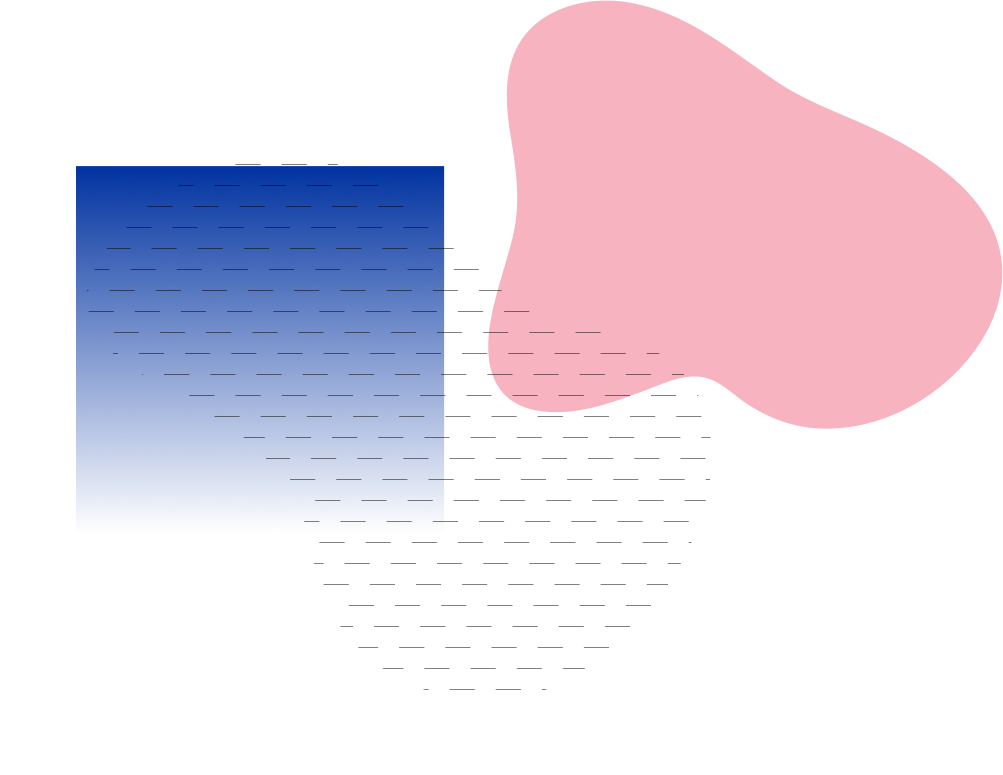
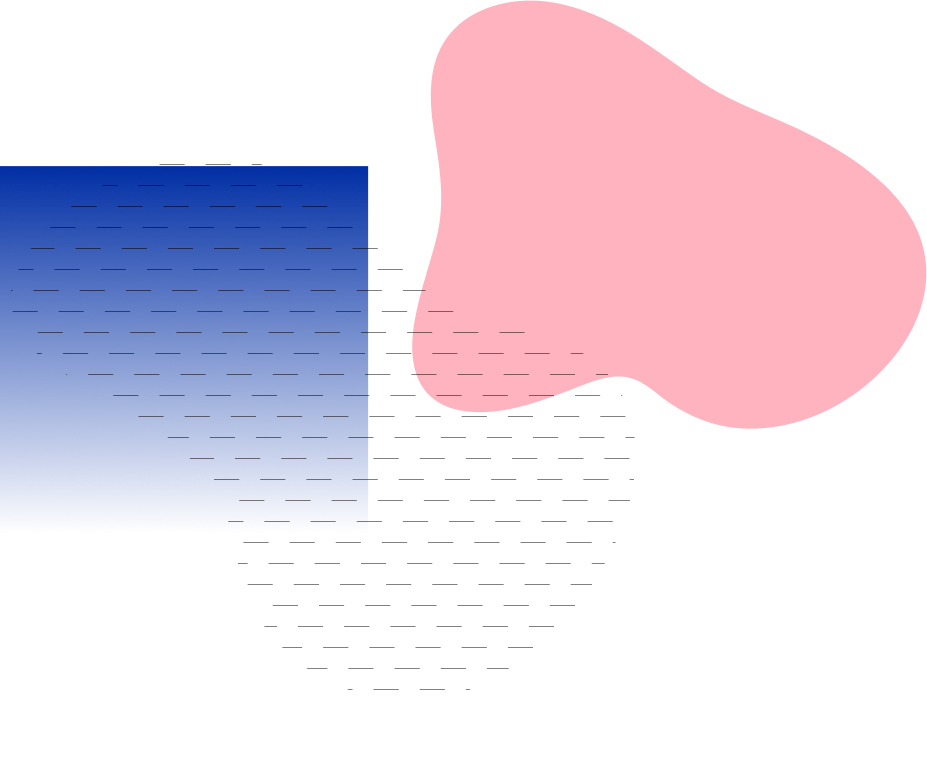
edited

diff --git a/src/scss/modules/main.scss b/src/scss/modules/main.scss
@@ -6,6 +6,7 @@ main.main{
     max-width: $desktopWidth;
     & .experts{
       position: relative;
+      z-index: 1;
       & ul.slider{
         margin-bottom: 50px;
         & li.item{
@@ -22,6 +23,7 @@ main.main{
               text-align: left;
               position: relative;
               min-height: 76px;
+              z-index: 0;
               & span.blue{
                 background-color: $blue;
                 color: $white;
@@ -30,10 +32,10 @@ main.main{
                 display: block;
                 position: absolute;
                 content: '';
-                left: -35px;
-                top: -60px;
-                width: 255px;
-                height: 200px;
+                left: -25px;
+                top: -55px;
+                width: 218px;
+                height: 170px;
                 background-image: url('/assets/img/slides/cloud.svg');
                 background-size: cover;
                 background-position: 50%;
@@ -60,6 +62,17 @@ main.main{
                 background-image: url('/assets/img/slides/slide-2-hover.png');
               }
             }
+            & .text{
+              & p{
+                max-width: 220px;
+                &::before{
+                  left: -15px;
+                  top: -47px;
+                  width: 230px;
+                  height: 180px;
+                }
+              }
+            }
           }
           &.slide-3 {
             & .pic{
@@ -70,9 +83,36 @@ main.main{
             & .pic{
               background-image: url('/assets/img/slides/slide-4.png');
             }
+            & .text{
+              & p{
+                max-width: 220px;
+                &::before{
+                  left: -15px;
+                  top: -47px;
+                  width: 230px;
+                  height: 180px;
+                }
+              }
+            }
           }
         }
       }
+      &::before{
+        display: block;
+        position: absolute;
+        content: '';
+        left: -5%;
+        bottom: 10%;
+        width: 110%;
+        height: 100%;
+        background-image: url('/assets/img/pattern/pattern-1.png');
+        background-size: auto 100%;
+        background-position: 30% 100%;
+        background-repeat: no-repeat;
+        z-index: -1;
+      }
+    }
+    & .title{
       & h1.title{
         background-color: rgba(0,50,160,.3);
         font-family: $extraBold;
@@ -99,25 +139,13 @@ main.main{
         }
         
       }
-      &::before{
-        display: block;
-        position: absolute;
-        content: '';
-        left: -5%;
-        bottom: 10%;
-        width: 110%;
-        height: 100%;
-        background-image: url('/assets/img/pattern/pattern-1.png');
-        background-size: auto 100%;
-        background-position: 30% 100%;
-        background-repeat: no-repeat;
-        z-index: -1;
-      }
     }
     & .content{
       background-color: transparent;
       text-align: center;
       max-width: 514px;
+      position: relative;
+      z-index: 1;
       & .text{
         font-size: $fz8;
         background-color: $white;
@@ -157,7 +185,8 @@ main.main{
         & ul.slider{
           & li.item{
             & .pic{
-              height: 677px;
+              height: 600px;
+              width: 625px;
             }
           }
         }
@@ -172,115 +201,67 @@ main.main{
     & .container{
       display: flex;
       flex-direction: row;
+      flex-wrap: wrap;
       & .experts{
         position: relative;
         order: 2;
+        width: 64%;
+        margin-left: -30px;
         & ul.slider{
           margin-bottom: 50px;
           & li.item{
-            display: flex;
-            flex-direction: column;
+            flex-direction: row;
             & .text{
-              text-align: center;
-              margin-bottom: 90px;
+              margin-bottom: 0px;
+              order: 2;
+              position: absolute;
+              right: -5%;
+              top: 80px;
               & p{
-                font-family: $medium;
                 font-size: $fz6;
-                display: inline-block;
                 max-width: 200px;
-                text-align: left;
-                position: relative;
                 min-height: 76px;
                 & span.blue{
                   background-color: $blue;
                   color: $white;
                 }
                 &::before{
-                  display: block;
-                  position: absolute;
-                  content: '';
                   left: -35px;
-                  top: -60px;
-                  width: 255px;
-                  height: 200px;
-                  background-image: url('/assets/img/slides/cloud.svg');
-                  background-size: cover;
-                  background-position: 50%;
-                  background-repeat: no-repeat;
-                  z-index: -1;
                 }
               }
             }
             & .pic{
-              text-align: center;
-              background-image: url('/assets/img/slides/slide-1.png');
-              background-size: contain;
-              background-repeat: no-repeat;
-              background-position: 50% 100%;
+              text-align: left;
+              order: 1;
+              background-position: 0px 100%;
               &:hover{
                 background-image: url('/assets/img/slides/slide-1-hover.png');
               }
             }
-            &.slide-2 {
-              & .pic{
-                background-image: url('/assets/img/slides/slide-2.png');
-                &:hover{
-                  background-image: url('/assets/img/slides/slide-2-hover.png');
-                }
-              }
-            }
-            &.slide-3 {
-              & .pic{
-                background-image: url('/assets/img/slides/slide-3.png');
-              }
-            }
+            &.slide-2,
             &.slide-4 {
-              & .pic{
-                background-image: url('/assets/img/slides/slide-4.png');
+              & .text{
+                right: -3%;
+                top: 40px;
               }
             }
           }
-        }
-        & h1.title{
-          background-color: rgba(0,50,160,.3);
-          font-family: $extraBold;
-          font-size: $fz10;
-          text-transform: uppercase;
-          max-width: 411px;
-          text-align: center;
-          margin: auto;
-          padding: 22px 0;
-        }
-        & .button{
-          margin: -7px auto 30px;
-          & a{
-            background-color: $red;
-            font-family: $bold;
-            border-radius: 0;
-            letter-spacing: $ls1;
-            font-size: $fz11;
-            padding: 21px 70px 21px 40px;
-            background-image: url('/assets/img/icons/play.svg');
-            background-size: auto 35%;
-            background-position: 90% 50%;
-            background-repeat: no-repeat;
-          }
-          
         }
         &::before{
-          display: block;
-          position: absolute;
-          content: '';
-          left: -5%;
-          bottom: 10%;
-          width: 110%;
+          left: -60px;
+          bottom: 0%;
+          width: 120%;
           height: 100%;
           background-image: url('/assets/img/pattern/pattern-1.png');
           background-size: auto 100%;
-          background-position: 30% 100%;
+          background-position: 0% 100%;
           background-repeat: no-repeat;
           z-index: -1;
         }
+      }
+      & .title{
+        order: 3;
+        width: 100%;
       }
       & .content{
         background-color: transparent;
@@ -313,6 +294,51 @@ main.main{
           font-family: $bold;
           text-transform: uppercase;
           display: inline-block;
+        }
+      }
+    }
+  }
+}
+
+@media (min-width: $desktopWidth) {
+  main.main{
+    & .container{
+      & .experts{
+        & ul.slider{
+          & li.item{
+            & .text{
+              right: 0%;
+              & p{
+                font-size: $fz12;
+                max-width: 300px;
+                &::before{
+                  left: -35px;
+                  width: 370px;
+                  height: 290px;
+                  top: -75px;
+                }
+              }
+            }
+            & .pic{
+              height: 677px;
+              width: 625px;
+            }
+            &.slide-2,
+            &.slide-4 {
+              & .text{
+                right: -100px;
+                & p{
+                  max-width: 400px;
+                  &::before{
+                    left: -35px;
+                    top: -95px;
+                    width: 450px;
+                    height: 353px;
+                  }
+                }
+              }
+            }
+          }
         }
       }
     }

diff --git a/src/scss/modules/advantages.scss b/src/scss/modules/advantages.scss
@@ -12,7 +12,7 @@ section.advantages{
       margin-bottom: 50px;
       & .pic{
         width: 100%;
-        background-image: url('/assets/img/pattern/pattern-2.svg');
+        background-image: url('/assets/img/pattern/pattern-2.png');
         background-position: 80% 50%;
         background-size: 130% 130%;
         background-repeat: no-repeat;
@@ -134,7 +134,7 @@ section.advantages{
           width: 30%;
           left: 0;
           &.pick--statium{
-            background-image: url('/assets/img/pattern/pattern-3.svg');
+            background-image: url('/assets/img/pattern/pattern-3.png');
             background-position: -30% 50%;
             background-size: 120% 100%;
             text-align: right;

diff --git a/src/js/component/slider.js b/src/js/component/slider.js
@@ -1,11 +1,11 @@
 import "slick-carousel";
 
 function slider() {
-  if($('.company ul.slider').length) {
-    $('.company ul.slider').slick({
-      autoplay: true,
-    });
-  }
+  $('ul.slider').slick({
+    autoplay: false,
+    dots: true,
+    arrows: false
+  });
 }
 
 export default slider();

diff --git a/src/scss/modules/slick.scss b/src/scss/modules/slick.scss
@@ -16,7 +16,6 @@
 }
 .slick-list {
   position: relative;
-  overflow: hidden;
   display: block;
   margin: 0;
   padding: 0;

diff --git a/src/js/main.js b/src/js/main.js
@@ -1,1 +1,1 @@
-import slider from "./component/slider";
+// import slider from "./component/slider";
